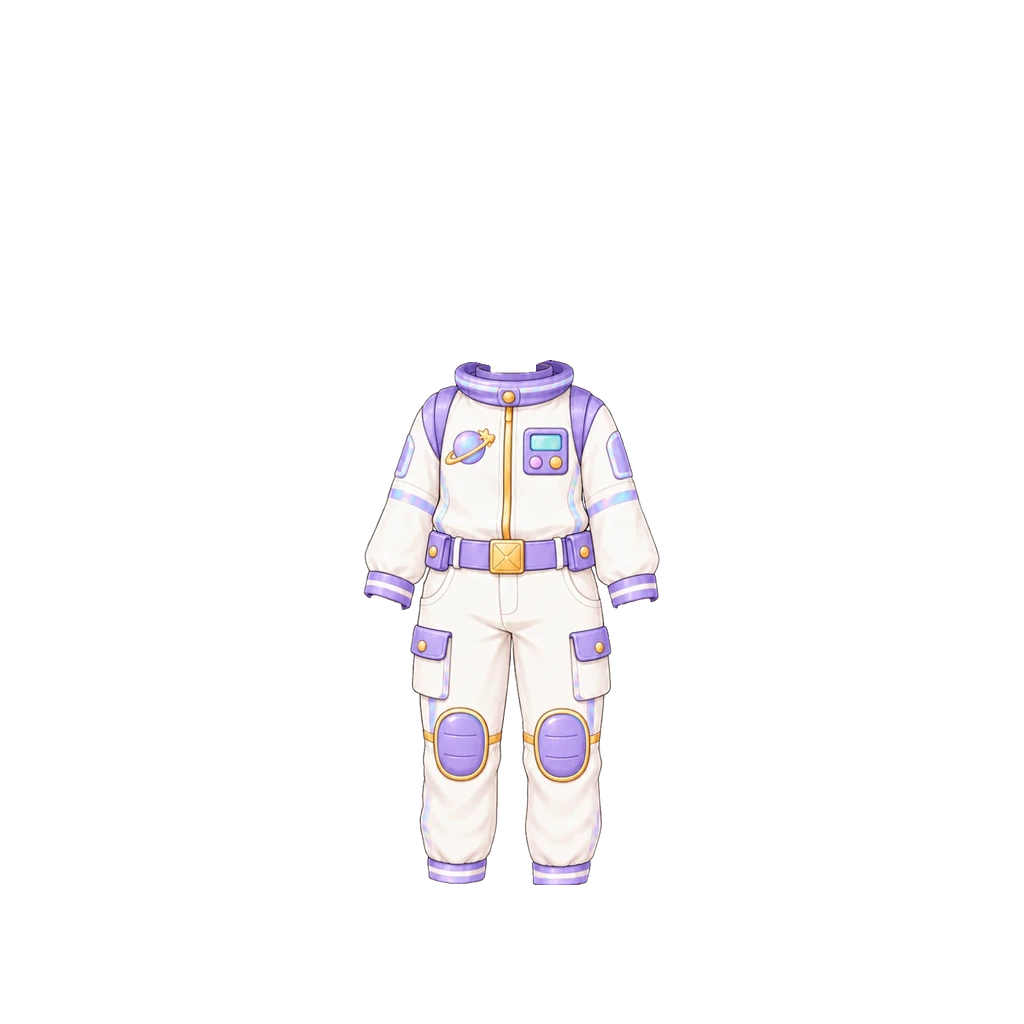
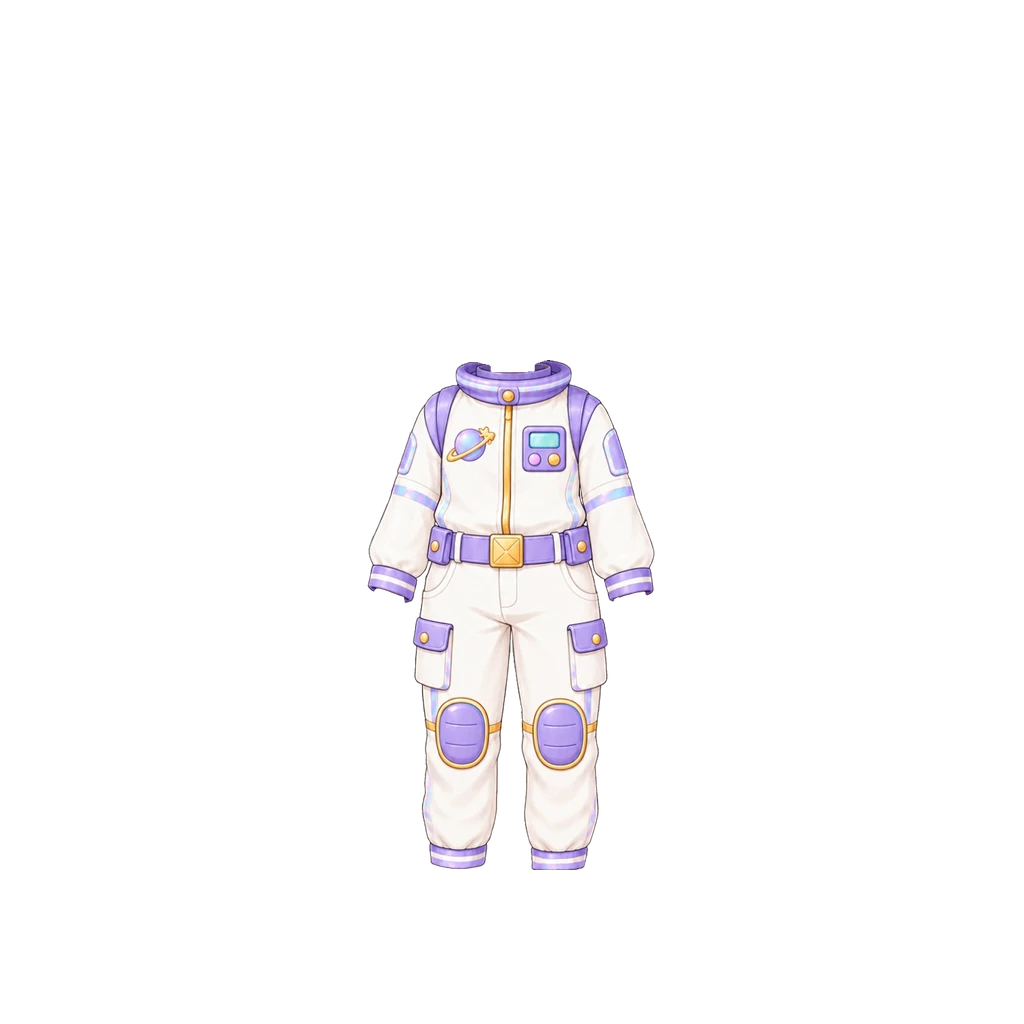
여아 우주복: 위치 조정하고 약 2% 크게 (#775)
배율 0.70→0.714, 위치 x512.5→511.5·y361→356(위로 5px, 왼쪽 1px). imgGirl ?v=3.

Claude-Session: https://claude.ai/code/session_018maNuYqDfFyRSe9uKpZhPR

Changed region(s): [[0.3438, 0.3438, 0.6562, 0.875]]

diff --git a/src/data/avatarEquipment.js b/src/data/avatarEquipment.js
@@ -345,7 +345,8 @@ export const AVATAR_CATALOG = [
   /* [2026-10-02] 여아 우주복 새 원화로 교체 — 흰 우주복(보라 목둘레·어깨·무릎 패드, 금 버클), 발목까지 오는 한 벌(사용자 원화).
      원화 맨 위의 턱선과 목둘레 안쪽 목 살을 지워 베이스 목이 그대로 보이게 하고, 목둘레 안 목 중심(x214)을 여아 목 중심 x512.5 에,
      원화 턱 자리 y2 를 여아 턱선 y361 에 맞췄다. 배율 0.70 — 흰 수영복·다리가 다 가려지고 발목·손목에서 끝난다. imgGirl ?v=2. */
-  { id: "top_space",      slot: "top",   label: "우주복",       emoji: "🚀", price:DECOR_PRICE.epic, rarity: "epic", theme: "space",  coversBottom: true, img: "assets/avatar/top/space-suit-boy.webp?v=3", imgGirl: "assets/avatar/top/space-suit-girl.webp?v=2", thumb: "assets/avatar/thumb/top_space.webp?v=3", thumbGirl: "assets/avatar/thumb/top_space-girl.webp?v=2" },
+  /* 배율 0.70→0.714, 위치 x512.5→511.5·y361→356. 여아 목 중심·턱선 맞춤. imgGirl ?v=3. */
+  { id: "top_space",      slot: "top",   label: "우주복",       emoji: "🚀", price:DECOR_PRICE.epic, rarity: "epic", theme: "space",  coversBottom: true, img: "assets/avatar/top/space-suit-boy.webp?v=3", imgGirl: "assets/avatar/top/space-suit-girl.webp?v=3", thumb: "assets/avatar/thumb/top_space.webp?v=3", thumbGirl: "assets/avatar/thumb/top_space-girl.webp?v=3" },
 
   /* ── 우주 세트 (남아) — 사용자 원화 2026-09-29 ────────────────────────────
      우주복(top_space)과 같은 원화 세트에서 나온 가방·신발. 둘 다 남아 전용 첫

diff --git a/art-src/README.md b/art-src/README.md
@@ -372,7 +372,7 @@ getBoundingClientRect로 재서 정한다. 2026-08-05 점검에서 이 기준을
 | (돌고래·돛단배 되돌림 2026-09-27) | 바로 위 8종 작업에서 **두 곳을 잘못 지웠다.** ① 돌고래 — '몸과 물 사이'를 지우면서 **눈 아래 흰 턱(300px, (119,130)-(174,142))까지 같이 날렸다.** 상자를 물결선 아래(y≥146)로만 좁혀 다시 지우니 물결선 띠(1029px)와 꼬리쪽 물방울 옆(227px)만 사라지고 턱은 남는다. ② 돛단배 — '돛대와 천 사이'라고 본 흰색은 **배경이 아니라 앞돛(jib)** 이었다. 아이 뒤에 흰 앞돛이 통째로 그려져 있고 큰 돛도 돛대에 바로 붙어 있어 **둘 사이에 지울 배경 자체가 없다.** (225,14) 기준으로 지운 6덩어리가 전부 돛 안쪽을 파먹어, 남녀 두 장 다 손대기 전으로 되돌렸다. **교훈: 흰 물건 옆의 '틈'은 지우기 전에 5배로 확대해 배경인지 물건인지 눈으로 확인할 것** — 마젠타 위에서도 흰 물건과 흰 배경은 똑같이 보인다 | assets/expedition/ride/dolphin{,-girl}.webp · sailboat{,-girl}.webp |
 | growth-characters-760/adventure/{boy,girl}/stage-1~5.webp | **탐험 성장 캐릭터 5단계 남·여 (사용자 원화 2026-09-26 — 전면 교체)** — 받은 그림 10장이 전부 배경이 지워진 상태였고 **알파 1~19 짜리 헤일로**가 있었다(남아2 11,051px · 여아1 11,953px). **안 누르면 알파 상자가 그쪽까지 늘어나 캐릭터가 작게 들어간다** — 남아2 는 상자가 684 → 1042 로 벌어졌다. 눌러서 다시 잰 뒤 아바타 장비와 같은 규칙(연결 조각 60px 미만 제거 + 250px 이하 안쪽 구멍 메움)을 돌렸다. 겨드랑이·다리 사이처럼 **큰 빈 곳은 진짜 여백이라 그대로 둔다** — 옷과 달리 캐릭터는 구멍이 있는 게 정상이다. 보관 760 높이 · 배포 500 높이(알파 상자에 맞춰 자르고 세로만 맞춘다, 가로는 비율). **진화할수록 물건이 하나씩 는다** — 1 기본(사파리 헬멧·노란 조끼·초록 반바지·부츠) → 2 +고글 → 3 +허리 파우치 → 4 +빨간 스카프 → 5 +별 뱃지. 포즈도 단계마다 다르다(차렷 → 경례 → 가리키기 → 허리에 손 → 주먹). 예전 판(지도·돋보기·망토·지팡이가 늘어나던 세트)은 규칙 6 에 따라 같은 파일명으로 덮어썼다. CHAR_IMG 의 `?v=` 를 5 → 6 으로 올렸다 | assets/growth-characters/adventure/{boy,girl}/stage-1~5.webp |
 | (여아 전수 점검 2026-09-25) | 사용자 요청으로 **여아가 볼 수 있는 옷·모자 10종을 전부** 훑었다(입은 모습 + 상점 카드 + 자홍 배경 + 수치). 눈에 띄는 흠은 없었지만 수치로 **부스러기와 1픽셀급 구멍**이 남아 있어, 아바타 장비 전 파일에 같은 규칙을 한 번에 돌렸다 — **연결 조각 60px 미만 제거 + 테두리에 안 닿는 250px 이하 구멍을 이웃 색으로 메움**. 17개 파일이 손질됐다(해적 모자 부스러기 40·구멍 191 / 해적 옷 여아 구멍 73 / 별빛 마법사 부스러기 41 / 사파리 여아 부스러기 5·구멍 48 / 딸기 소풍 부스러기 7·구멍 22 …). 가장자리가 반투명이라 첫 판에 안 채워진 3개는 이웃 기준을 알파 60 으로 낮춰 마무리했다. **결과: 상점에 있는 17개 파일 전부 조각 1개·부스러기 0·구멍 0.** 손질로 그림이 바뀐 8종은 썸네일을 다시 뽑고 `?v=` 를 올렸다. 은퇴 파일(비행모·꽃헬멧·탐험헬멧·크림부츠·탐험끈·데님/카키 반바지) 8개도 같은 규칙에 함께 손질됐다 — 상점엔 없지만 배포본에는 들어가므로 그대로 뒀다 | (전 파일) |
-| space-girl-src.webp | **우주복 원화 여아 — 새 판 (사용자 원화 2026-10-02, 이전 판 교체)**. 424×750 투명 배경, 흰 우주복(보라 목둘레·어깨·소매·무릎 패드, 금 지퍼·버클) 발목까지 한 벌. 맨 위에 베이스 턱선, 목둘레 안에 목 살이 그려져 있다 → 원화 y0~5 의 보라가 아닌 픽셀과 목둘레 안쪽(y0~17, x175~257)의 보라가 아닌 픽셀을 모두 지워 베이스 목이 비치게 했다. 목둘레 안 목 중심 x214 를 여아 목 중심 x512.5 에, 원화 턱 자리 y2 를 여아 턱선 y361 에 맞추고 배율 0.70 — 흰 수영복 0·종아리까지 다 가려지고 바지 끝이 발목, 소매 끝이 손목. 조각 1개. 탑재 상자 (363,360,660,885) · imgGirl ?v=2 | avatar/top/space-suit-girl.webp · thumb/top_space-girl.webp |
+| space-girl-src.webp | **우주복 원화 여아 — 새 판 (사용자 원화 2026-10-02, 이전 판 교체)**. 424×750 투명 배경, 흰 우주복(보라 목둘레·어깨·소매·무릎 패드, 금 지퍼·버클) 발목까지 한 벌. 맨 위에 베이스 턱선, 목둘레 안에 목 살이 그려져 있다 → 원화 y0~5 의 보라가 아닌 픽셀과 목둘레 안쪽(y0~17, x175~257)의 보라가 아닌 픽셀을 모두 지워 베이스 목이 비치게 했다. 목둘레 안 목 중심 x214 를 여아 목 중심 x512.5 에, 원화 턱 자리 y2 를 여아 턱선 y361 에 맞추고 배율 0.70 — 흰 수영복 0·종아리까지 다 가려지고 바지 끝이 발목, 소매 끝이 손목. 조각 1개. 탑재 상자 (363,360,660,885) · imgGirl ?v=2 **[2026-10-02 조정]** 배율 0.70→0.714(+2%), 위치 x512.5→511.5·y361→356(위로 5px, 왼쪽 1px). 탑재 상자 (367,360,655,870) · imgGirl ?v=3 | avatar/top/space-suit-girl.webp · thumb/top_space-girl.webp |
 | picnic-girl-src.webp | **딸기 소풍 옷 원화 여아 (사용자 원화 2026-08-19)** — 베이스 v7 여아가 **입고 있는 전신 그림**(859×1832, 배경 검정). 분홍 깅엄 카디건 + 크림 블라우스 + 딸기 자수 산호색 반바지 | avatar/top/picnic-outfit-girl.webp |
 | magic-girl-src.webp | **별빛 마법사 옷 원화 여아 — 새 판 (사용자 원화 2026-10-02, 이전 판 교체)**. 512×553 투명 배경, 보라 후드 망토(금 테두리·별 브로치) + 연보라 원피스·초승달 허리띠·별 무늬 보라 치마, 소매 끝에 치마를 잡은 손까지 그려져 있다. 맨 위(원화 y0~16)에 베이스 턱 아래 곡선이 함께 그려져 있어 보라·금색이 아닌 픽셀을 지웠다. 후드 사이 목 중심 x255.5 를 여아 목 중심 x512.5 에, 원화 턱선 y14 를 여아 턱선 y361 에 맞추고 배율 0.62 — 원화 손이 아바타 손 자리(x357~417·y560~658)를 덮고 그 아래는 치마가 가려 손이 두 쌍으로 안 보인다(손을 지우면 손목이 잘려 보여 살렸다). 목 살은 턱선 아래 20px 동안 0→1 페이드. 흰 수영복 비침 0, 조각 1개. 탑재 상자 (354,353,671,695) · ?v=4 **[2026-10-02 보정]** 사용자 요청으로 옷에 그려진 손만 보이게 — 이 옷을 입으면 손을 뺀 몸 base/body-girl-nohands.webp 를 쓴다(카탈로그 bodyImgGirl). body-girl ?v=13 에서 소매가 팔을 다 덮는 줄(왼 y486·오른 y480)부터 아래의 양팔 덩어리와 손가락 조각(왼 x≤414·오른 x≥598)을 지워 만들었다 — **body-girl 을 바꾸면 이 파일도 다시 만들어야 한다** **[2026-10-02 조정]** 사용자 요청으로 위치는 그대로, 배율 0.62 → 0.6577(×1.04×1.02). 탑재 상자 (344,353,681,716) · img ?v=5, 손을 뺀 몸도 다시 만들어 ?v=2(소매가 팔을 덮는 줄 양쪽 y470) **[2026-10-02 재조정]** 배율 0.6577 → 0.698(위치 그대로). 탑재 상자 (334,353,691,737) · img ?v=6, 손을 뺀 몸 ?v=3 | avatar/top/magic-outfit-girl.webp · thumb/top_magic.webp |
 | pirate-girl-outfit-src.webp | **해적 옷 원화 여아 — 새 판 (사용자 원화 2026-10-02, 이전 판 교체)**. 416×485 투명 배경, 크림 퍼프 블라우스(둥근 깃·주황 리본·금단추) + 주황 허리띠를 맨 남색 반바지 한 벌. 위쪽에 목(턱 없음)이 함께 그려져 있다. 원화 목 외곽선 x177.5~240.5(폭 63, 중심 209)를 여아 목 중심 x512.5 에, 곧은 목선이 끝나는 원화 y15 를 여아 y372 에 맞추고 배율 0.70(목 폭이 같아지는 값 · 흰 수영복도 이 값부터 0). 목 살(r−b>70)과 목 옆선은 원화 y4→20 동안 0→1 페이드. 조각 1개. 탑재 상자 (366,362,657,702) · imgGirl ?v=4 **[2026-10-02 수정판]** 같은 크기의 사용자 수정판으로 덮어씀 — 반바지 밑단 아래(원화 y320~470)가 조금 늘었다. 같은 탑재값, 탑재 상자 (366,362,657,702) · imgGirl ?v=5 | avatar/top/pirate-outfit-girl.webp · thumb/top_pirate-girl.webp |
